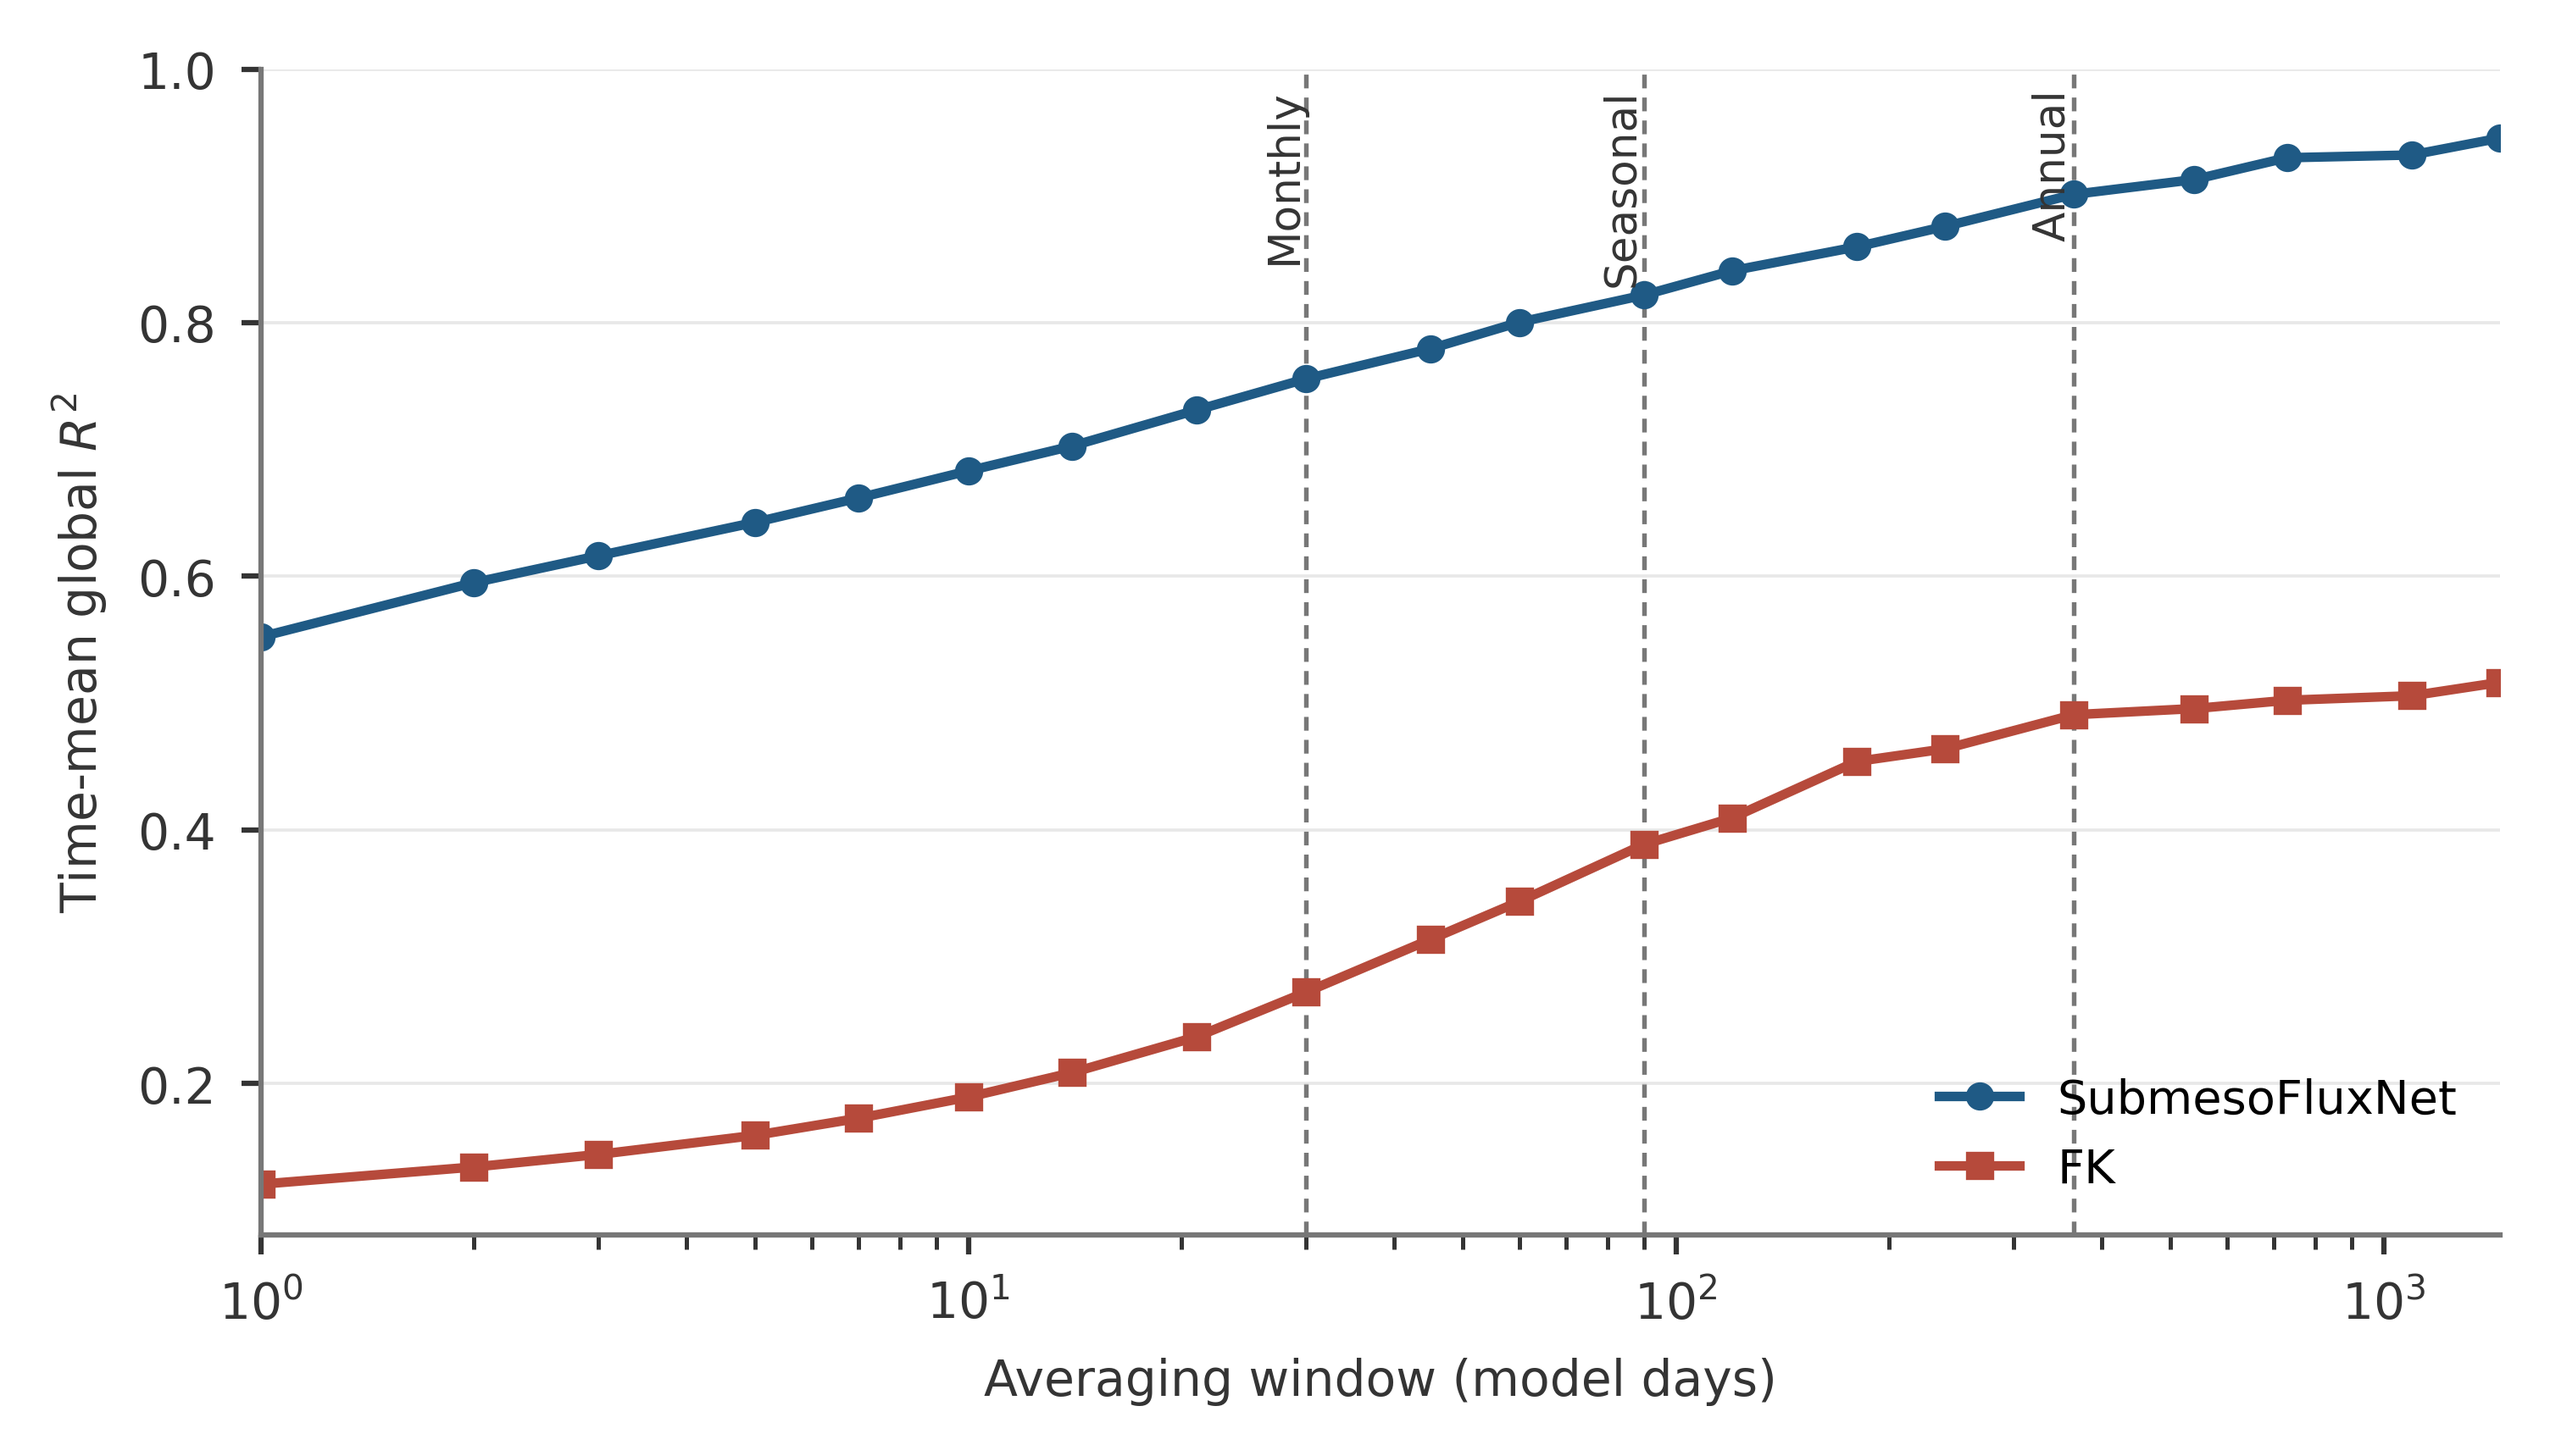
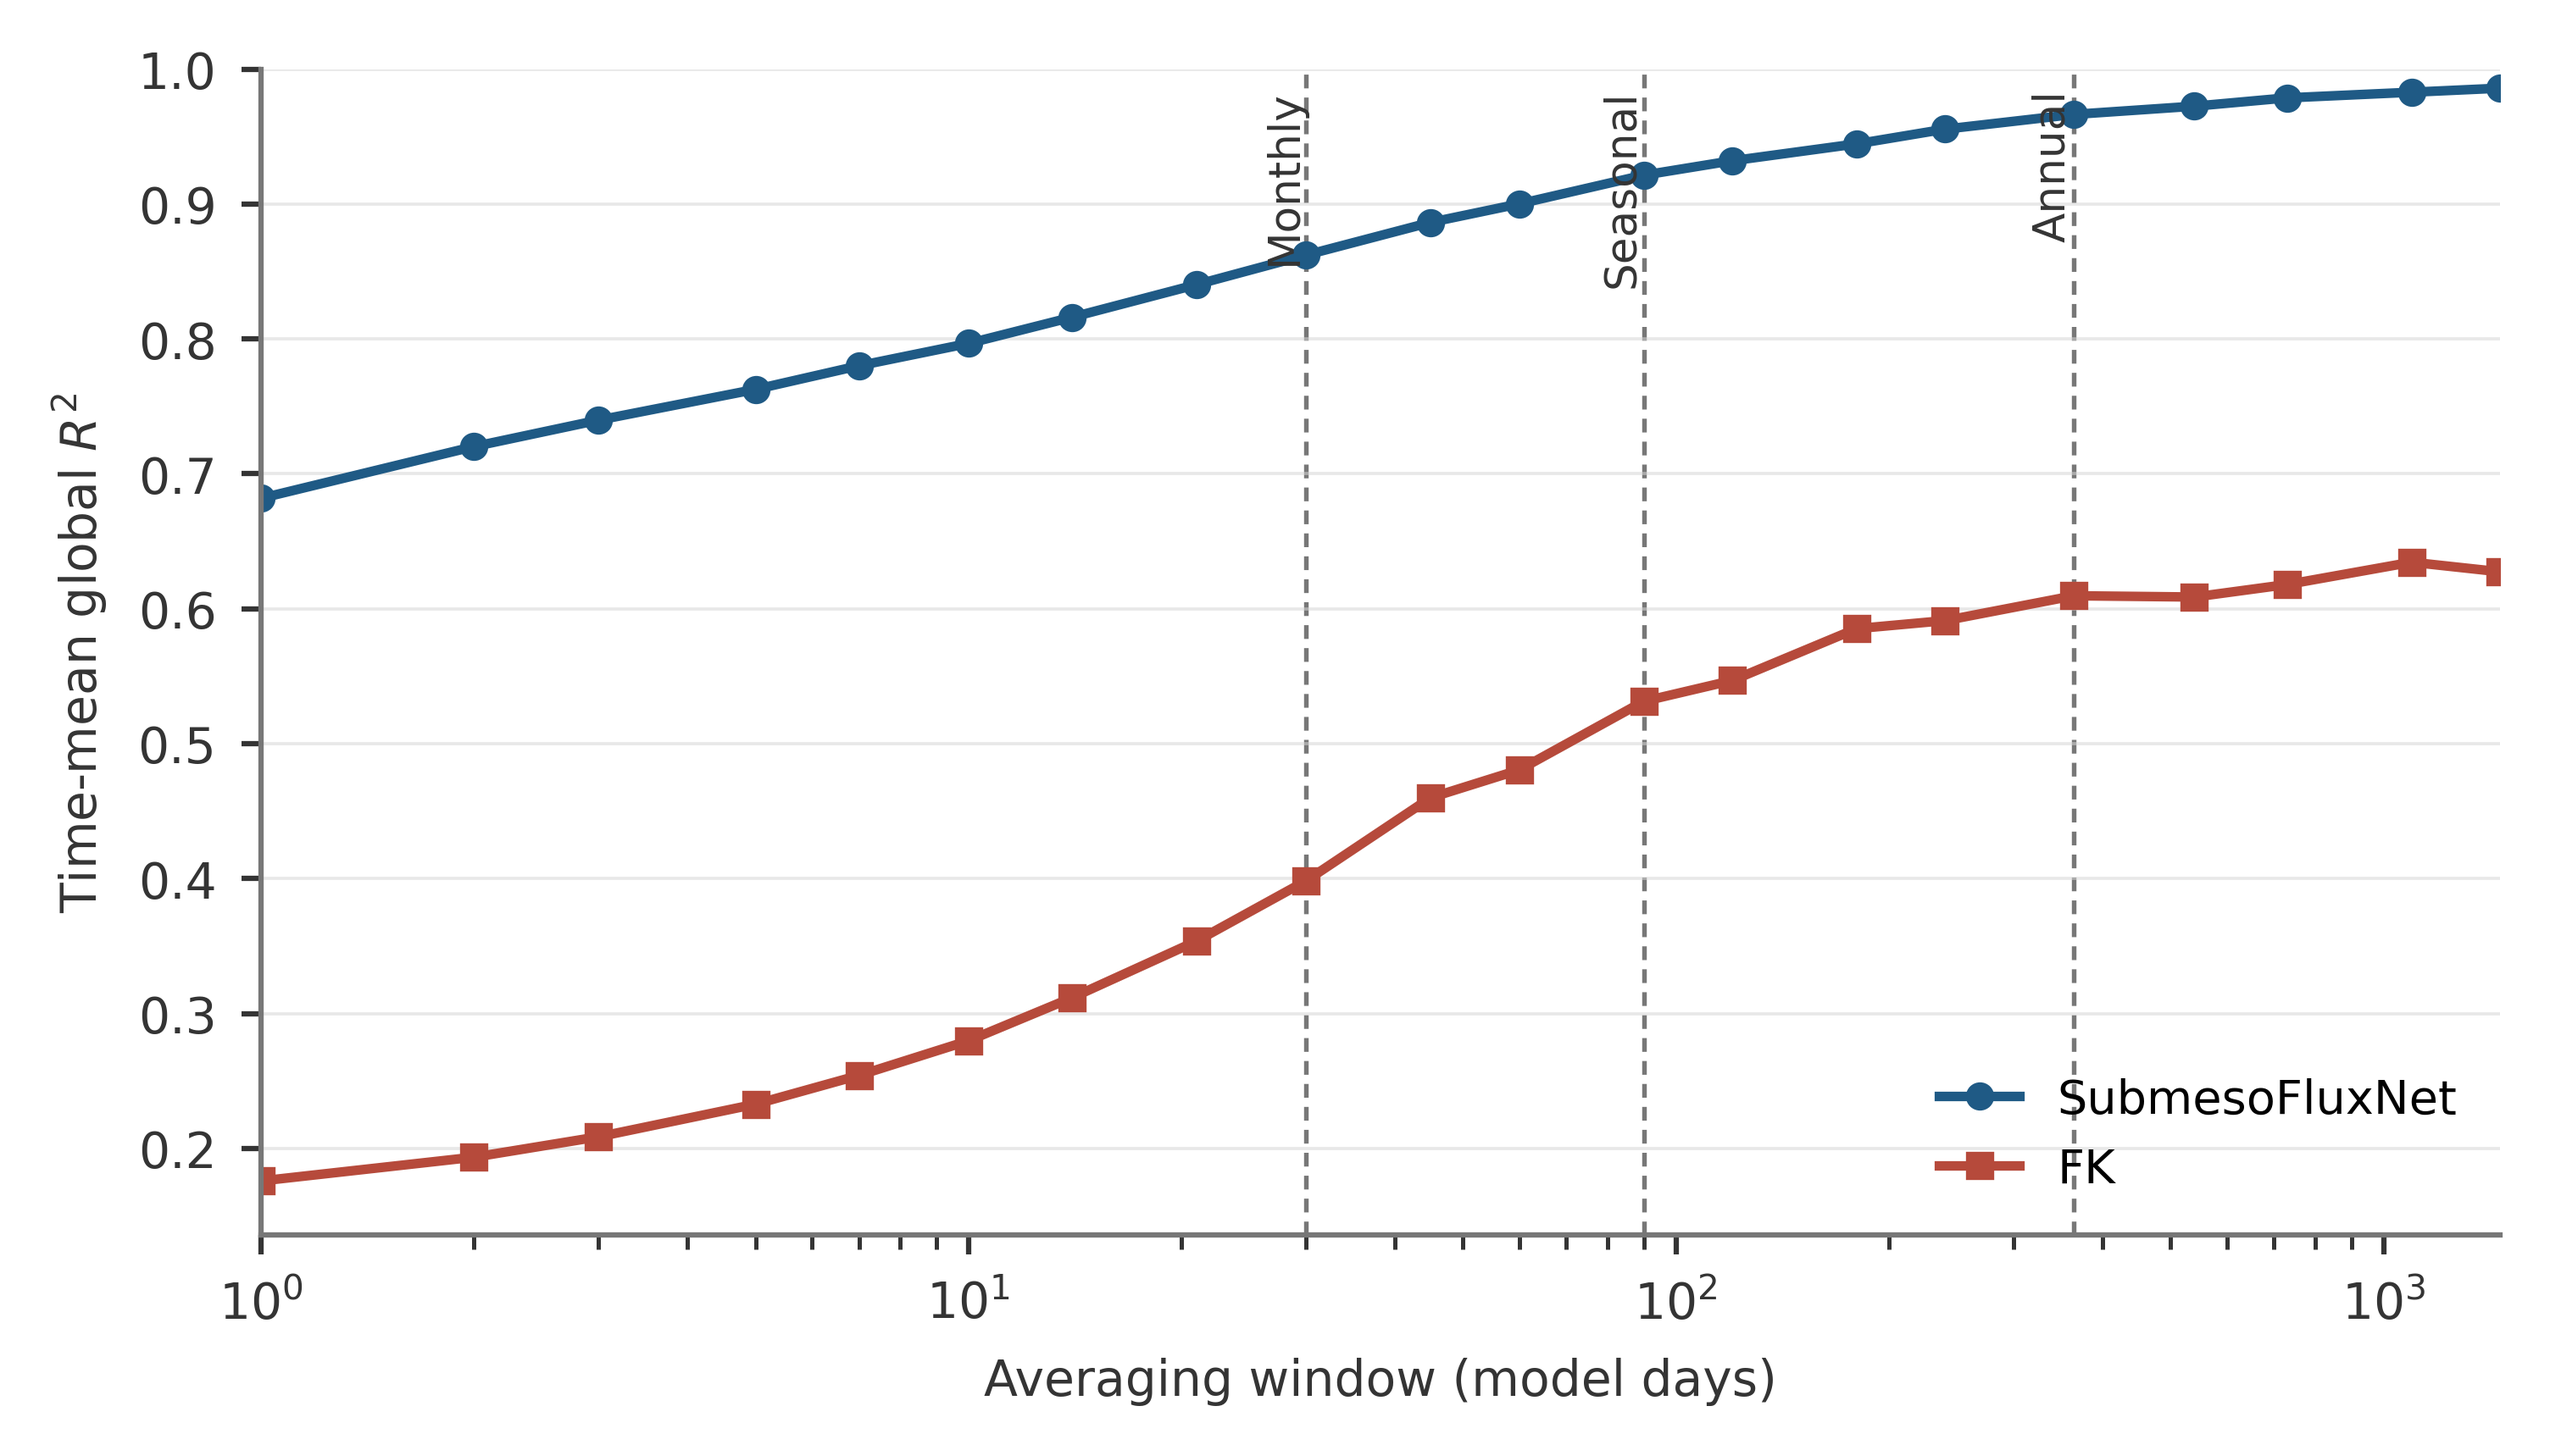
some new time mean skill codes

diff --git a/_src/analysis/time_mean_skill_comparison/plot_annual_mean_maps.py b/_src/analysis/time_mean_skill_comparison/plot_annual_mean_maps.py
@@ -24,12 +24,12 @@ def parse_args() -> argparse.Namespace:
     parser.add_argument(
         "--fluxnet-predictions",
         type=Path,
-        default=PROJECT_DIR / "outputs_no_shuffle_overfitting_test/test_predictions_denorm.npz",
+        default=PROJECT_DIR / "outputs_train_on_small_domain/upper_40x20_encoder_convlstm/test_predictions_denorm.npz",
     )
     parser.add_argument(
         "--fk-predictions",
         type=Path,
-        default=PROJECT_DIR / "analysis/fk_mle/fk_test_Ce2p13062237_prediction_physical.npz",
+        default=PROJECT_DIR / "analysis/fk_mle/upper_40x20/fk_test_Ce2p13062237_prediction_physical.npz",
     )
     parser.add_argument("--window", type=int, default=365, help="Averaging window in model days/snapshots.")
     parser.add_argument("--block-index", type=int, default=0, help="Annual block to plot after trimming to full blocks.")
@@ -38,6 +38,7 @@ def parse_args() -> argparse.Namespace:
     parser.add_argument("--output-prefix", type=Path, default=HERE / "annual_mean_maps")
     parser.add_argument("--summary-output", type=Path, default=HERE / "annual_mean_maps_summary.txt")
     parser.add_argument("--data-output", type=Path, default=HERE / "annual_mean_maps_data.npz")
+    parser.add_argument("--fk-display-label", default="FK", help="Display label for the FK/MLE baseline in plots and logs.")
     return parser.parse_args()
 
 
@@ -118,6 +119,9 @@ def align_to_fluxnet(
 
     flux_pos_array = np.asarray(flux_positions, dtype=np.int64)
     fk_pos_array = np.asarray(fk_positions, dtype=np.int64)
+    order = np.argsort(flux_sample[flux_pos_array])
+    flux_pos_array = flux_pos_array[order]
+    fk_pos_array = fk_pos_array[order]
     aligned_time = fk_time_index[fk_pos_array] if fk_time_index is not None else None
     return (
         flux_sample[flux_pos_array],
@@ -180,11 +184,7 @@ def add_cbar(fig: plt.Figure, image, axes, label: str) -> None:
 
 def save_figure(fig: plt.Figure, output_prefix: Path) -> None:
     output_prefix.parent.mkdir(parents=True, exist_ok=True)
-    for ext in (".svg", ".pdf", ".png", ".tiff"):
-        kwargs = {"bbox_inches": "tight"}
-        if ext in {".png", ".tiff"}:
-            kwargs["dpi"] = 600
-        fig.savefig(Path(f"{output_prefix}{ext}"), **kwargs)
+    fig.savefig(Path(f"{output_prefix}.png"), dpi=600, bbox_inches="tight")
 
 
 def draw_figure(
@@ -197,6 +197,7 @@ def draw_figure(
     field_percentile: float,
     error_percentile: float,
     output_prefix: Path,
+    fk_label: str = "FK",
 ) -> None:
     apply_style()
     field_limit = robust_symmetric_limit(
@@ -212,7 +213,7 @@ def draw_figure(
         error_limit = float(np.nanmax(error_values))
     error_norm = Normalize(vmin=0.0, vmax=max(error_limit, 1.0e-6))
 
-    fig = plt.figure(figsize=(6.1, 3.65), constrained_layout=True)
+    fig = plt.figure(figsize=(7, 2.65), constrained_layout=True)
     grid = fig.add_gridspec(2, 3, width_ratios=[1.0, 1.0, 1.0], height_ratios=[1.0, 1.0])
     axes = np.asarray([[fig.add_subplot(grid[row, col]) for col in range(3)] for row in range(2)])
 
@@ -220,7 +221,7 @@ def draw_figure(
     for ax, title, values in (
         (axes[0, 0], "Truth", truth),
         (axes[0, 1], "SubmesoFluxNet", fluxnet),
-        (axes[0, 2], "FK", fk),
+        (axes[0, 2], fk_label, fk),
     ):
         field_image = ax.imshow(values, origin="lower", cmap="RdBu_r", norm=field_norm, interpolation="nearest")
         ax.set_title(title, fontsize=7.5, pad=4)
@@ -231,12 +232,12 @@ def draw_figure(
     error_image = None
     for ax, title, values in (
         (axes[1, 1], "SubmesoFluxNet", fluxnet_error),
-        (axes[1, 2], "FK", fk_error),
+        (axes[1, 2], fk_label, fk_error),
     ):
         error_image = ax.imshow(values, origin="lower", cmap="magma", norm=error_norm, interpolation="nearest")
         ax.set_title(title, fontsize=7.5, pad=4)
         format_map_axis(ax)
-    add_cbar(fig, error_image, [axes[1, 1], axes[1, 2]], r"Normalized squared error $(\Delta/\sigma_y)^2$")
+    add_cbar(fig, error_image, [axes[1, 1], axes[1, 2]], "Normalized squared error\n" + r"$(\Delta/\sigma_y)^2$")
 
     save_figure(fig, output_prefix)
     plt.close(fig)
@@ -301,6 +302,7 @@ def main() -> None:
         field_percentile=args.field_percentile,
         error_percentile=args.error_percentile,
         output_prefix=args.output_prefix,
+        fk_label=args.fk_display_label,
     )
 
     args.data_output.parent.mkdir(parents=True, exist_ok=True)
@@ -330,11 +332,10 @@ def main() -> None:
         fk_error=fk_error,
     )
 
-    for ext in (".svg", ".pdf", ".png", ".tiff"):
-        print(f"Saved {args.output_prefix}{ext}", flush=True)
+    print(f"Saved {args.output_prefix}.png", flush=True)
     print(f"Saved {args.summary_output}", flush=True)
     print(f"Saved {args.data_output}", flush=True)
-    print(f"Annual block {args.block_index}: SubmesoFluxNet R2={fluxnet_r2:.6f}, FK R2={fk_r2:.6f}", flush=True)
+    print(f"Annual block {args.block_index}: SubmesoFluxNet R2={fluxnet_r2:.6f}, {args.fk_display_label} R2={fk_r2:.6f}", flush=True)
 
 
 if __name__ == "__main__":

diff --git a/_src/analysis/time_mean_skill_comparison/plot_time_mean_skill.py b/_src/analysis/time_mean_skill_comparison/plot_time_mean_skill.py
@@ -29,16 +29,17 @@ def parse_args() -> argparse.Namespace:
     parser.add_argument(
         "--fluxnet-predictions",
         type=Path,
-        default=PROJECT_DIR / "outputs_no_shuffle_overfitting_test/test_predictions_denorm.npz",
+        default=PROJECT_DIR / "outputs_train_on_small_domain/upper_40x20_encoder_convlstm/test_predictions_denorm.npz",
     )
     parser.add_argument(
         "--fk-predictions",
         type=Path,
-        default=PROJECT_DIR / "analysis/fk_mle/fk_test_Ce2p13062237_prediction_physical.npz",
+        default=PROJECT_DIR / "analysis/fk_mle/upper_40x20/fk_test_Ce2p13062237_prediction_physical.npz",
     )
     parser.add_argument("--output-prefix", type=Path, default=HERE / "time_mean_skill_comparison")
     parser.add_argument("--csv-output", type=Path, default=HERE / "time_mean_skill_comparison.csv")
     parser.add_argument("--summary-output", type=Path, default=HERE / "time_mean_skill_comparison_summary.txt")
+    parser.add_argument("--fk-display-label", default="FK", help="Display label for the FK/MLE baseline in plots and logs.")
     parser.add_argument(
         "--windows",
         type=int,
@@ -127,6 +128,9 @@ def align_to_fluxnet(
 
     flux_pos_array = np.asarray(flux_positions, dtype=np.int64)
     fk_pos_array = np.asarray(fk_positions, dtype=np.int64)
+    order = np.argsort(flux_sample[flux_pos_array])
+    flux_pos_array = flux_pos_array[order]
+    fk_pos_array = fk_pos_array[order]
     aligned_time = fk_time_index[fk_pos_array] if fk_time_index is not None else None
     return (
         flux_prediction[flux_pos_array],
@@ -204,14 +208,10 @@ def write_csv(path: Path, rows: list[dict[str, float | int]]) -> None:
 
 def save_figure(fig: plt.Figure, output_prefix: Path) -> None:
     output_prefix.parent.mkdir(parents=True, exist_ok=True)
-    for ext in (".svg", ".pdf", ".png", ".tiff"):
-        kwargs = {"bbox_inches": "tight"}
-        if ext in {".png", ".tiff"}:
-            kwargs["dpi"] = 600
-        fig.savefig(Path(f"{output_prefix}{ext}"), **kwargs)
+    fig.savefig(Path(f"{output_prefix}.png"), dpi=600, bbox_inches="tight")
 
 
-def draw_figure(rows: list[dict[str, float | int]], output_prefix: Path) -> None:
+def draw_figure(rows: list[dict[str, float | int]], output_prefix: Path, fk_label: str = "FK") -> None:
     apply_style()
     x = np.asarray([row["window_snapshots"] for row in rows], dtype=np.float64)
     flux_r2 = np.asarray([row["submesofluxnet_r2"] for row in rows], dtype=np.float64)
@@ -234,7 +234,7 @@ def draw_figure(rows: list[dict[str, float | int]], output_prefix: Path) -> None
         marker="s",
         markersize=3.0,
         linewidth=1.35,
-        label="FK",
+        label=fk_label,
     )
 
     markers = ((30, "Monthly"), (90, "Seasonal"), (365, "Annual"))
@@ -308,10 +308,9 @@ def main() -> None:
     rows = compute_skill_by_window(target, flux_prediction, fk_prediction, args.windows)
     write_csv(args.csv_output, rows)
     write_summary(args.summary_output, rows, int(target.shape[0]), aligned_time)
-    draw_figure(rows, args.output_prefix)
+    draw_figure(rows, args.output_prefix, args.fk_display_label)
 
-    for ext in (".svg", ".pdf", ".png", ".tiff"):
-        print(f"Saved {args.output_prefix}{ext}", flush=True)
+    print(f"Saved {args.output_prefix}.png", flush=True)
     print(f"Saved {args.csv_output}", flush=True)
     print(f"Saved {args.summary_output}", flush=True)
     for row in rows:
@@ -319,7 +318,7 @@ def main() -> None:
             print(
                 f"window={row['window_snapshots']}: "
                 f"SubmesoFluxNet R2={float(row['submesofluxnet_r2']):.6f}, "
-                f"FK R2={float(row['fk_r2']):.6f}",
+                f"{args.fk_display_label} R2={float(row['fk_r2']):.6f}",
                 flush=True,
             )
 
